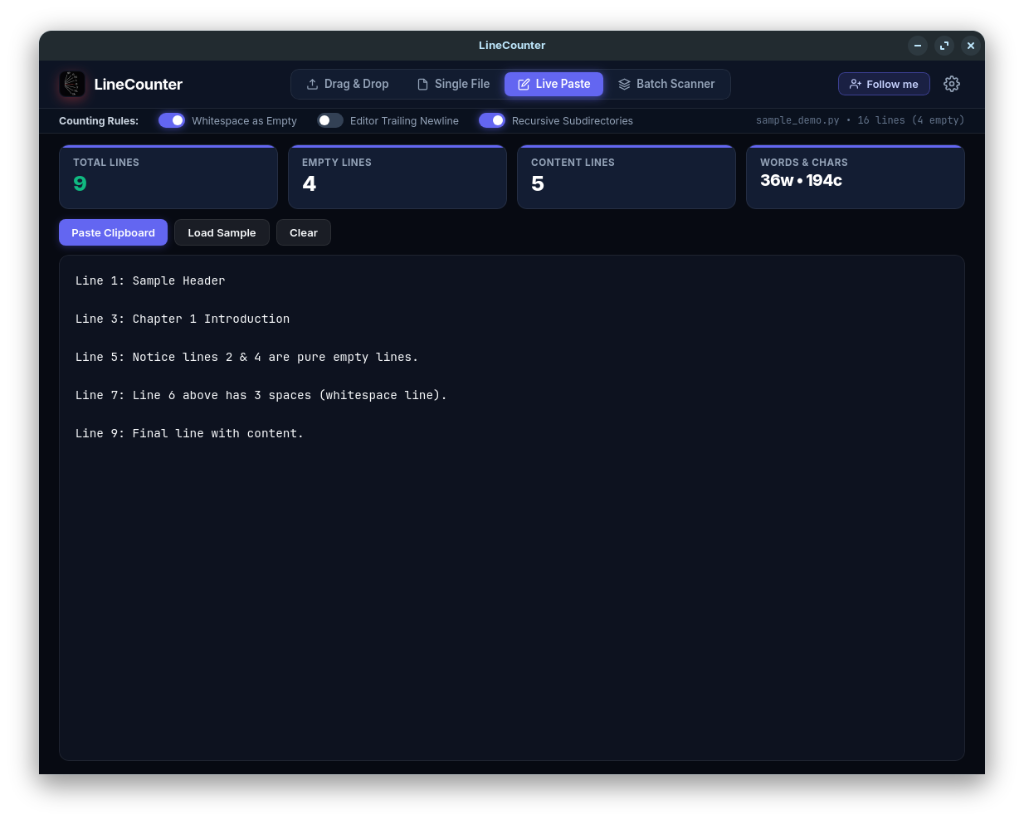
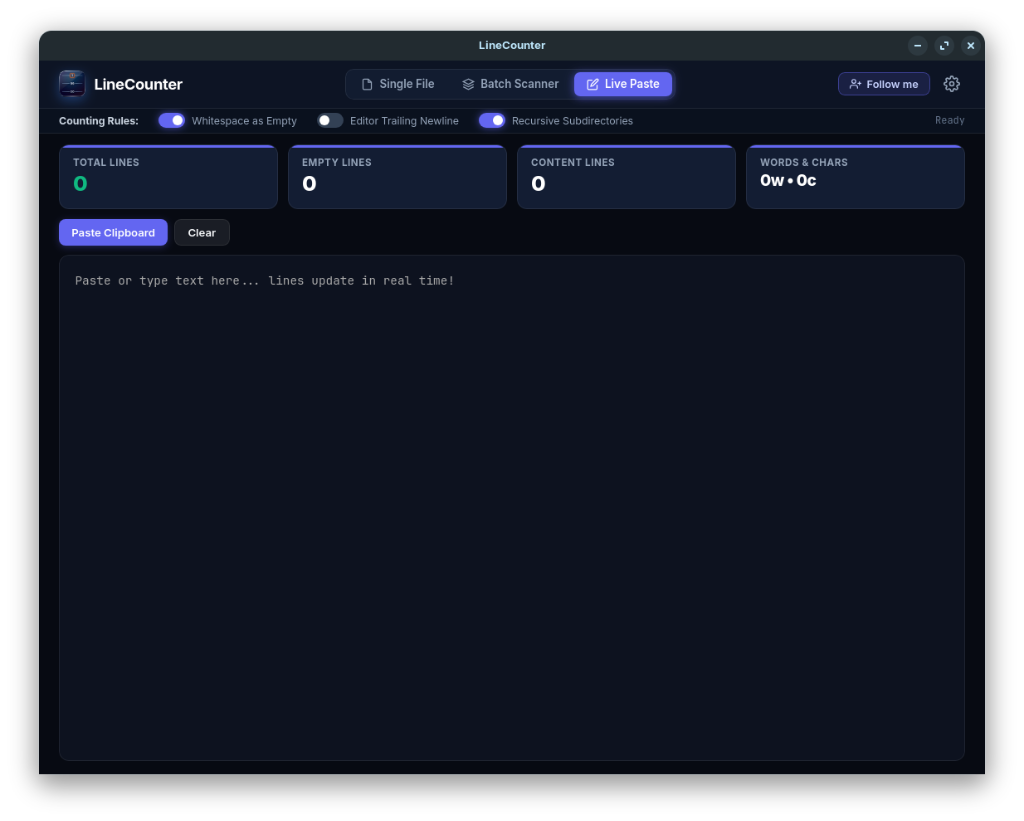
docs: update to 3 latest tab screenshots, remove file path navigation, and fix windows CI staging

diff --git a/README.md b/README.md
@@ -18,11 +18,14 @@
 
 ## 📸 Screenshots
 
-| 1. Single File Inspector | 2. Batch Directory Scanner |
+### 1. Single File Inspector & Live In-App Editor
+<img src="assets/screenshots/01-single-file.png" width="100%" alt="Single File Inspector" />
+
+<br>
+
+| 2. Batch Directory Scanner | 3. Live Paste Counter |
 | :---: | :---: |
-| <a href="assets/screenshots/02-single-file.png"><img src="assets/screenshots/02-single-file.png" width="100%" alt="Single File Inspector Tab" /></a> | <a href="assets/screenshots/04-batch-scanner.png"><img src="assets/screenshots/04-batch-scanner.png" width="100%" alt="Batch Scanner Tab" /></a> |
-| **3. Live Paste Counter** | **Universal Drag & Drop** |
-| <a href="assets/screenshots/03-live-paste.png"><img src="assets/screenshots/03-live-paste.png" width="100%" alt="Live Paste Counter Tab" /></a> | <a href="assets/screenshots/01-drag-drop.png"><img src="assets/screenshots/01-drag-drop.png" width="100%" alt="Universal Drag & Drop" /></a> |
+| <img src="assets/screenshots/02-batch-scanner.png" width="100%" alt="Batch Directory Scanner" /> | <img src="assets/screenshots/03-live-paste.png" width="100%" alt="Live Paste Counter" /> |
 
 ---
 
